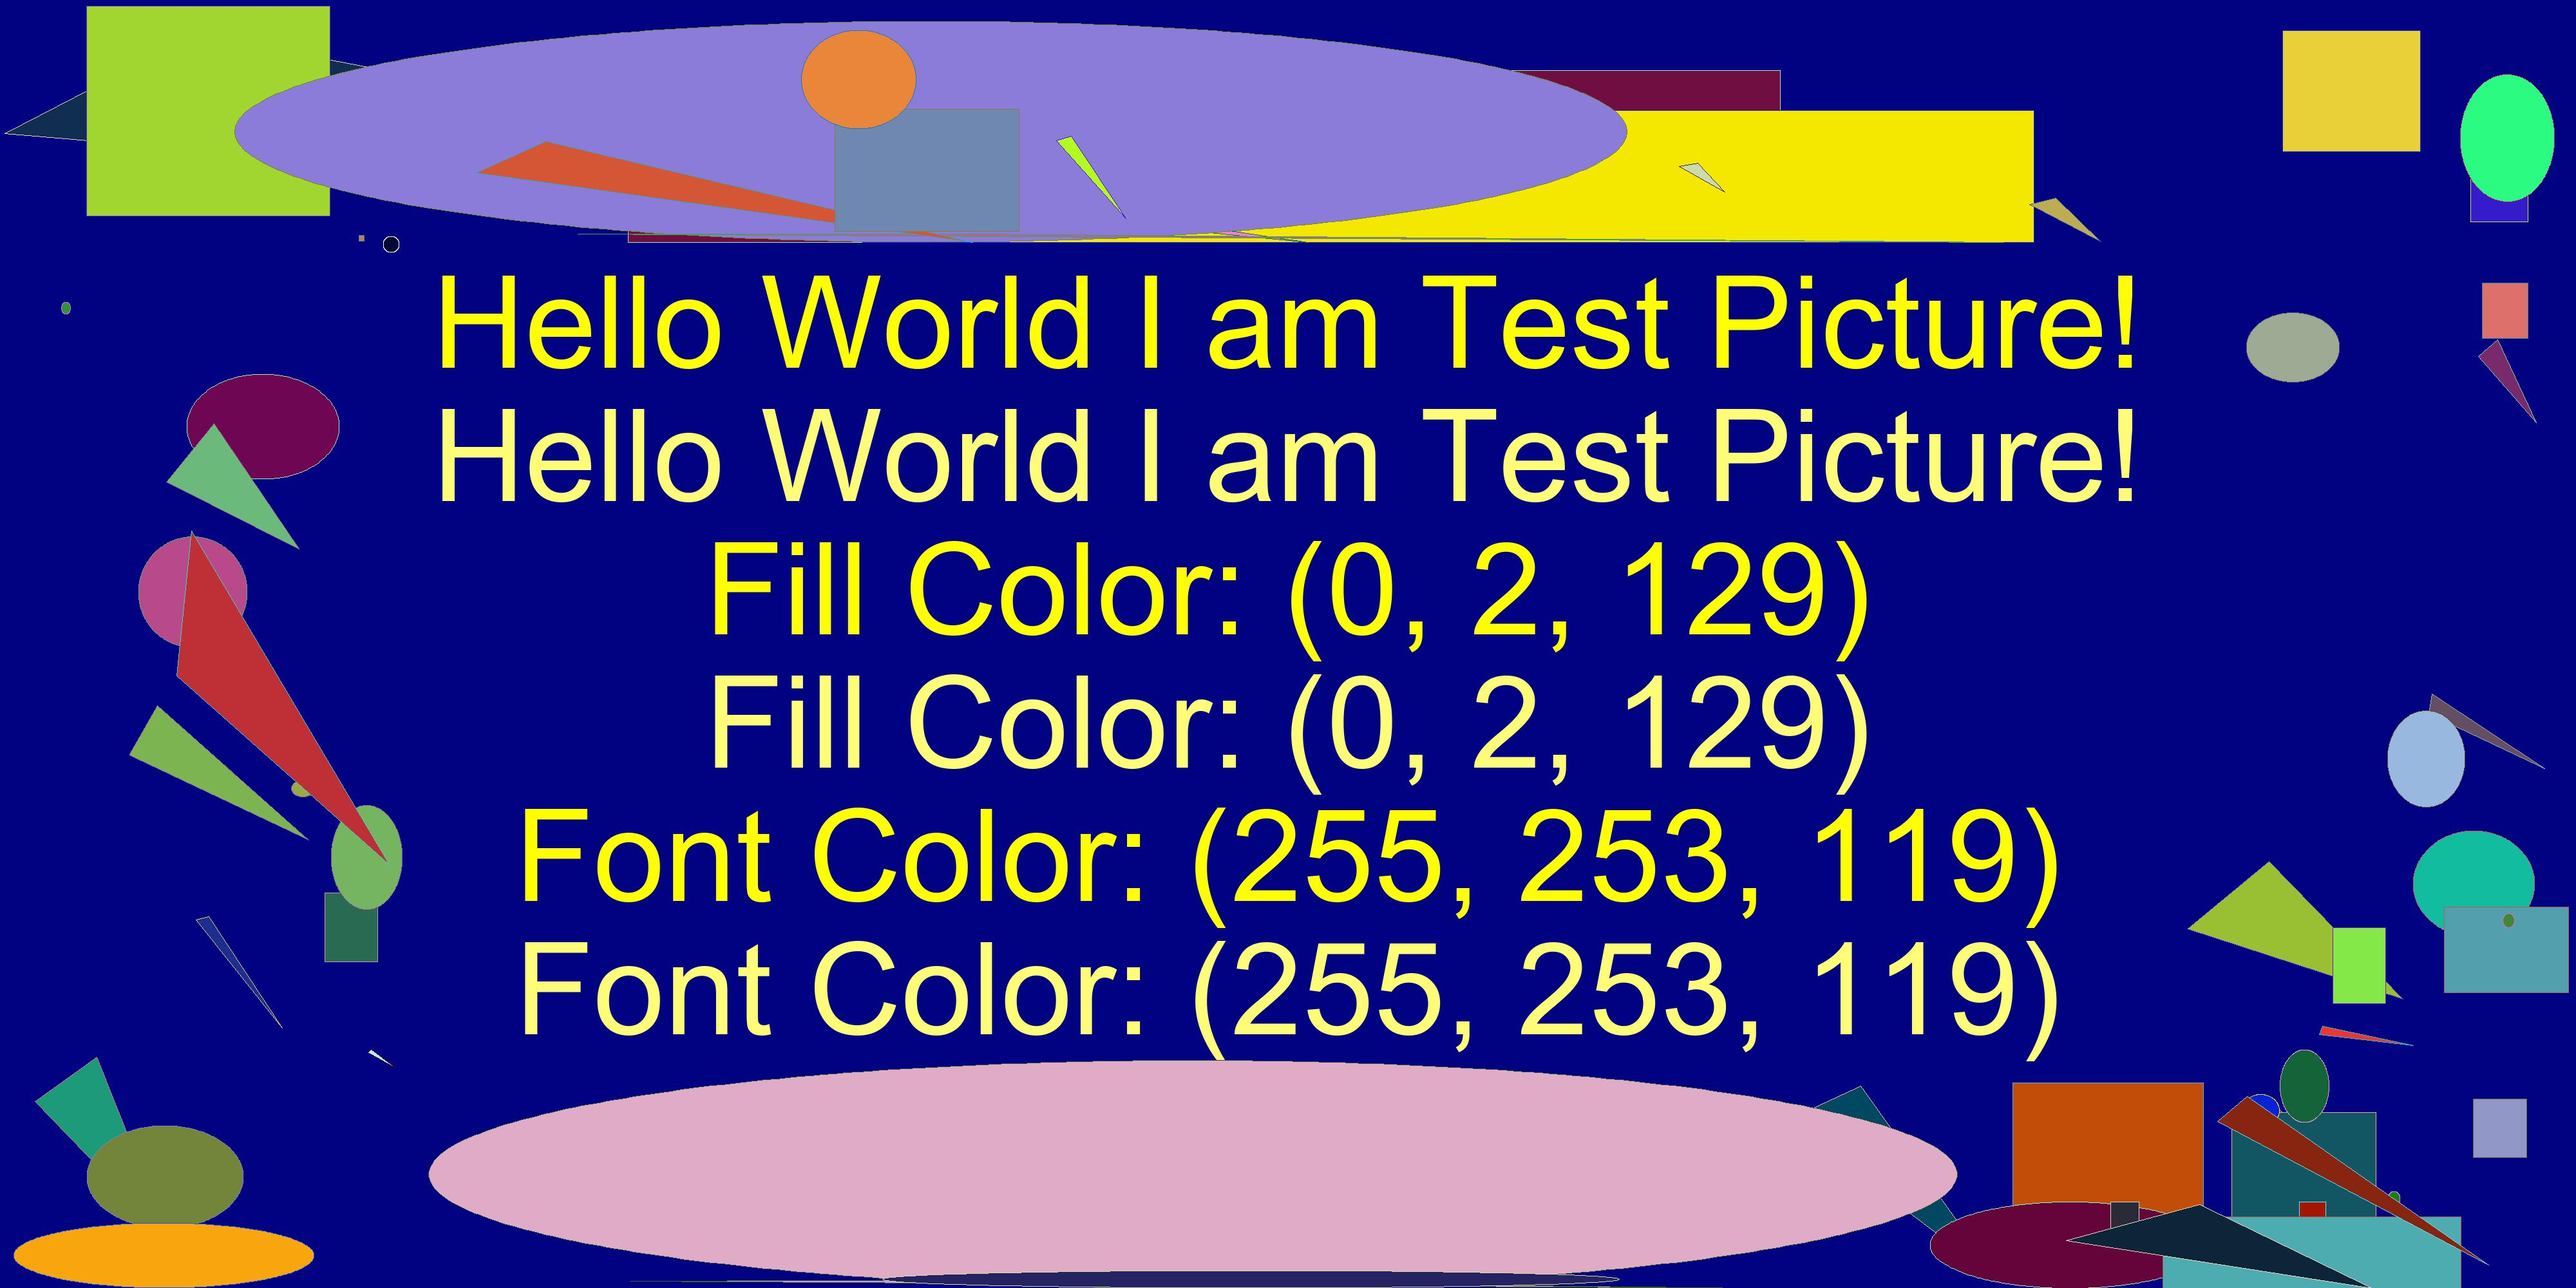
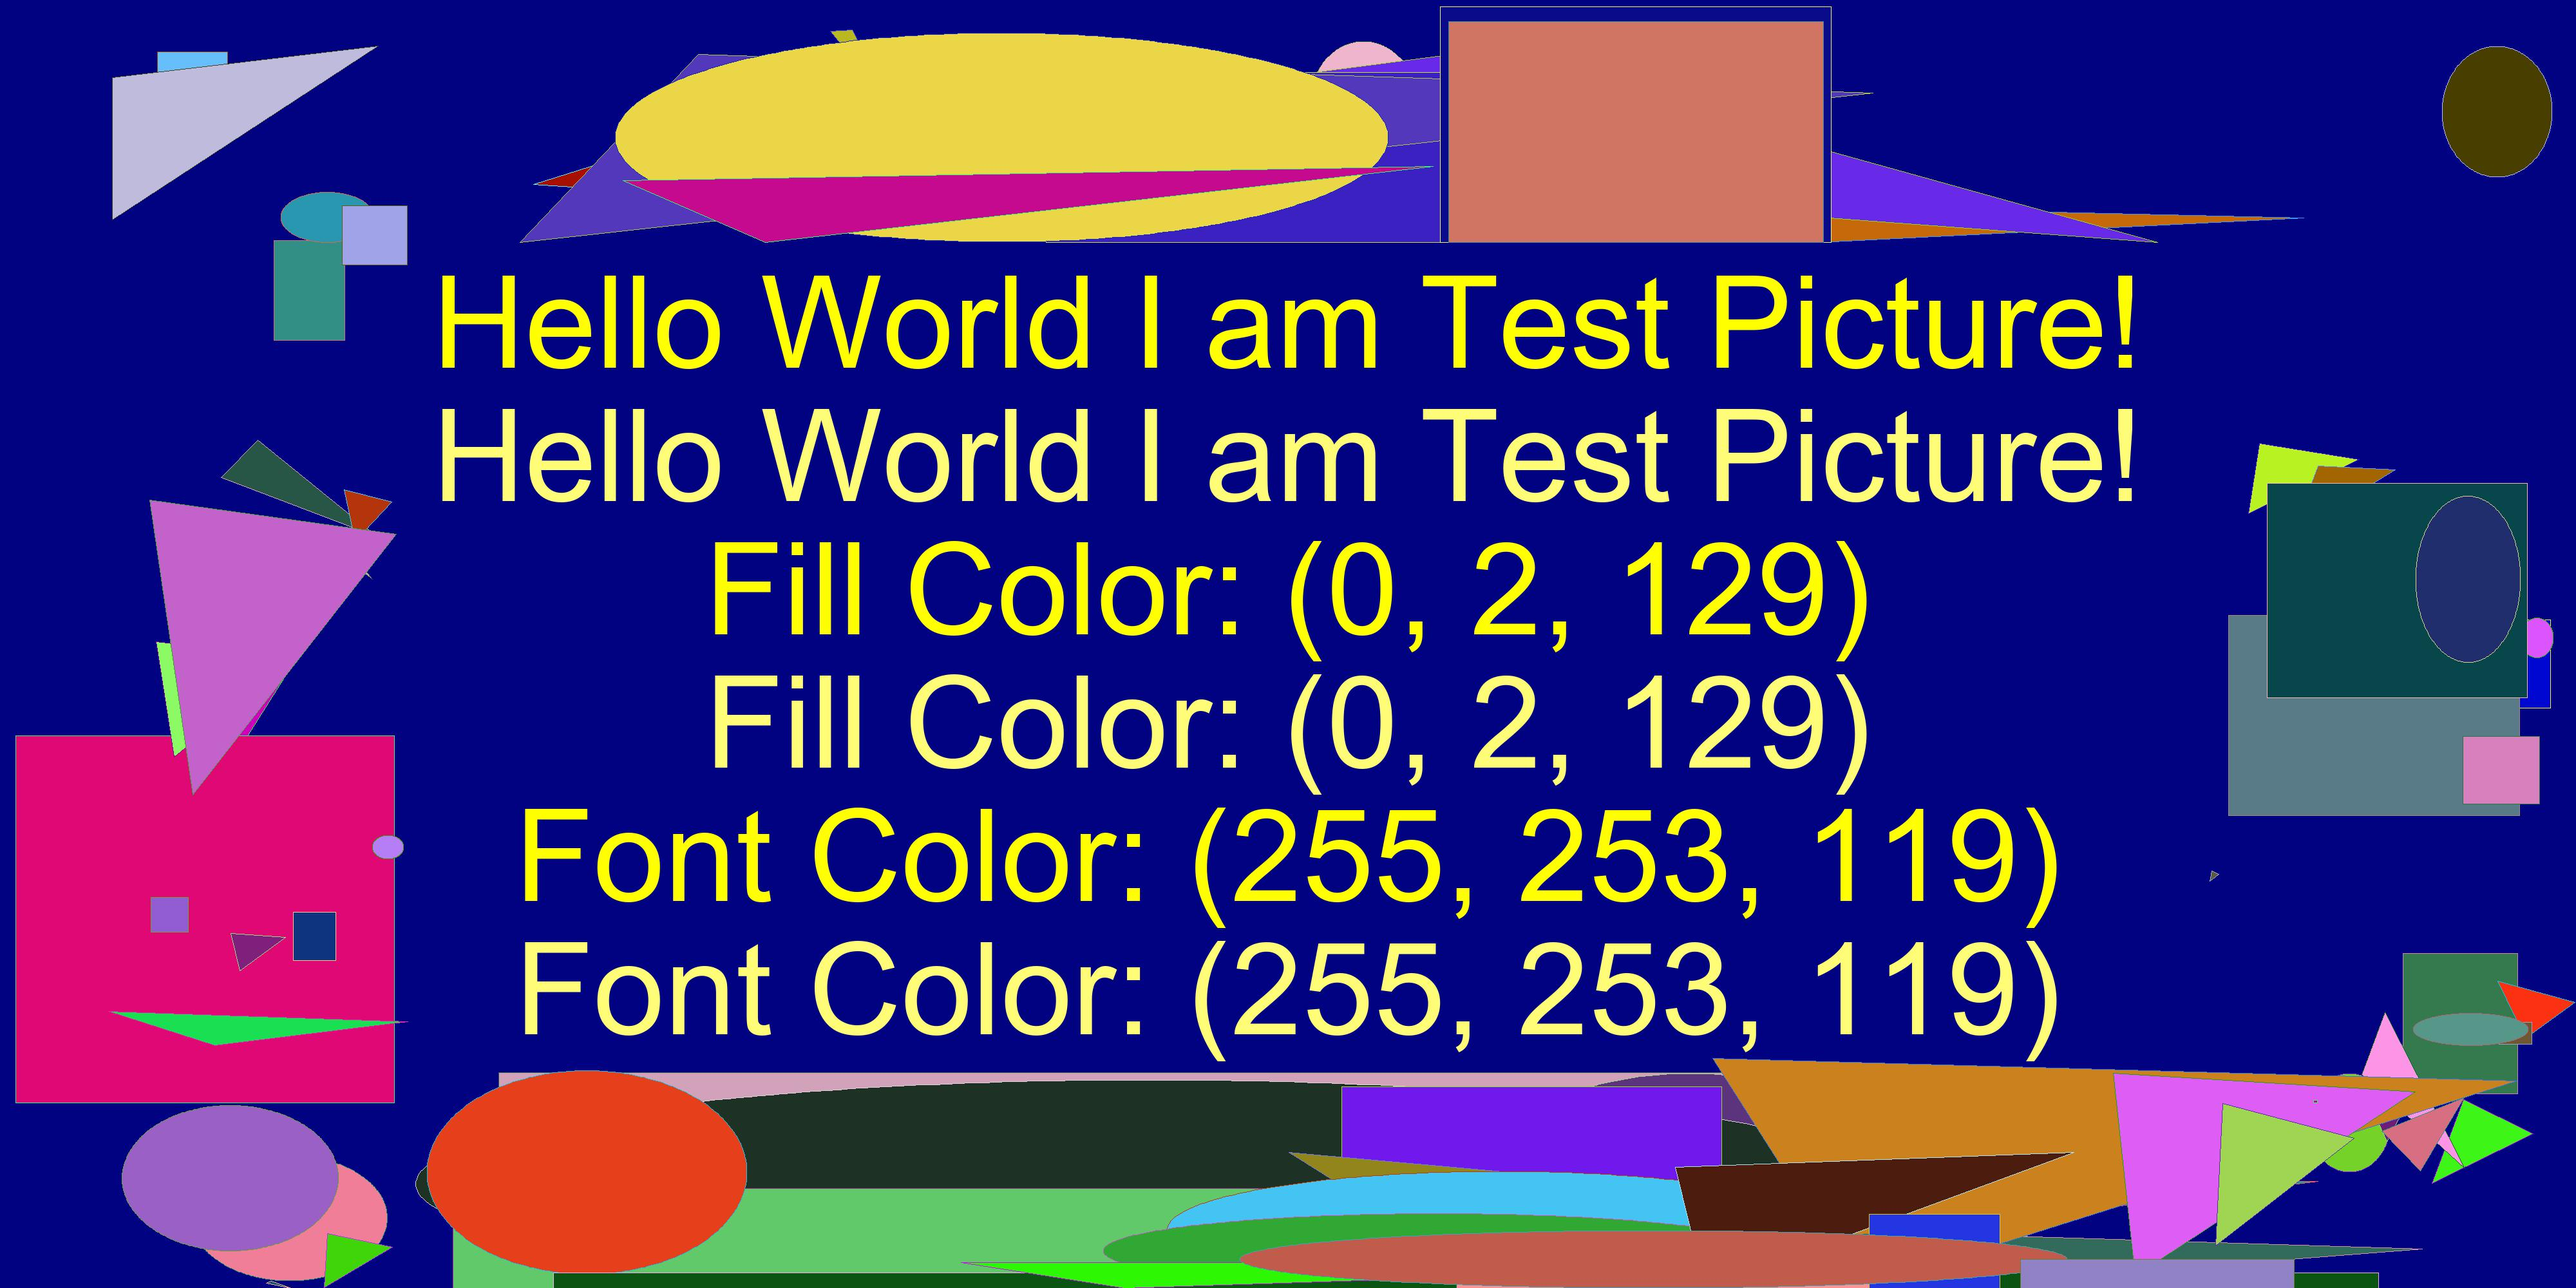
fix triangles

diff --git a/genpic.py b/genpic.py
@@ -111,15 +111,26 @@ def genRect(borderRects):
             return cnd
     print("Here")            
     return genRectCnd(bbox)
- 
 
-def drawTriangle(draw, colour, rect):
+#    0     w2      2 
+# 1  +-------------+
+#    |             |
+# h2 |             |
+#    |             |
+# 3  +-------------+
+def drawTriangle(draw, colour, rect):    
     width = rect[2] - rect[0]
     height = rect[3] - rect[1]
-    triXY = ((rect[0] + randrange(int(width / 2 + 0.5)), rect[1]),
-             (rect[2], rect[3]),
-             (rect[0], rect[1] + randrange(int(height / 2 + 0.5))))      
-    # print(triXY)                   
+    w2 = rect[0] + randrange(int(width / 2 + 0.5))
+    h2 = rect[1] + randrange(int(height / 2 + 0.5))
+    switcher = {
+        0: lambda : ((w2, rect[1]), (rect[2], rect[3]), (rect[0], h2)),
+        1: lambda : ((rect[2], h2), (rect[0], rect[3]), (w2, rect[1])),
+        2: lambda : ((w2, rect[3]), (rect[0], rect[1]), (rect[2], h2)),
+        3: lambda : ((rect[0], h2), (rect[2], rect[1]), (w2, rect[3])),
+    }
+    triXY = switcher.get(randrange(4), lambda : switcher[0])()
+    #print(triXY)                   
     draw.polygon(triXY, fill=colour['rgb'], outline=colour['inv'])
 
 def drawFigures(colour, picSize, draw, inBox):
@@ -131,8 +142,10 @@ def drawFigures(colour, picSize, draw, inBox):
         2: lambda draw, fClr, fRct : draw.rectangle(fRct, fill=fClr['rgb'], outline=fClr['inv']),
     }
     for i in range(total):
-        func = switcher.get(randrange(3), lambda: "Invalid Id")
-        func(draw, randomColour(colour), genRect(borderRects))
+        figColor = randomColour(colour)
+        figRect = genRect(borderRects)
+        func = switcher.get(randrange(3), lambda : switcher[0](draw, figColor, figRect))
+        func(draw, figColor, figRect)
 
 def createImage(folder, triInd, picSize):    
     colour = calcColor(triInd)
